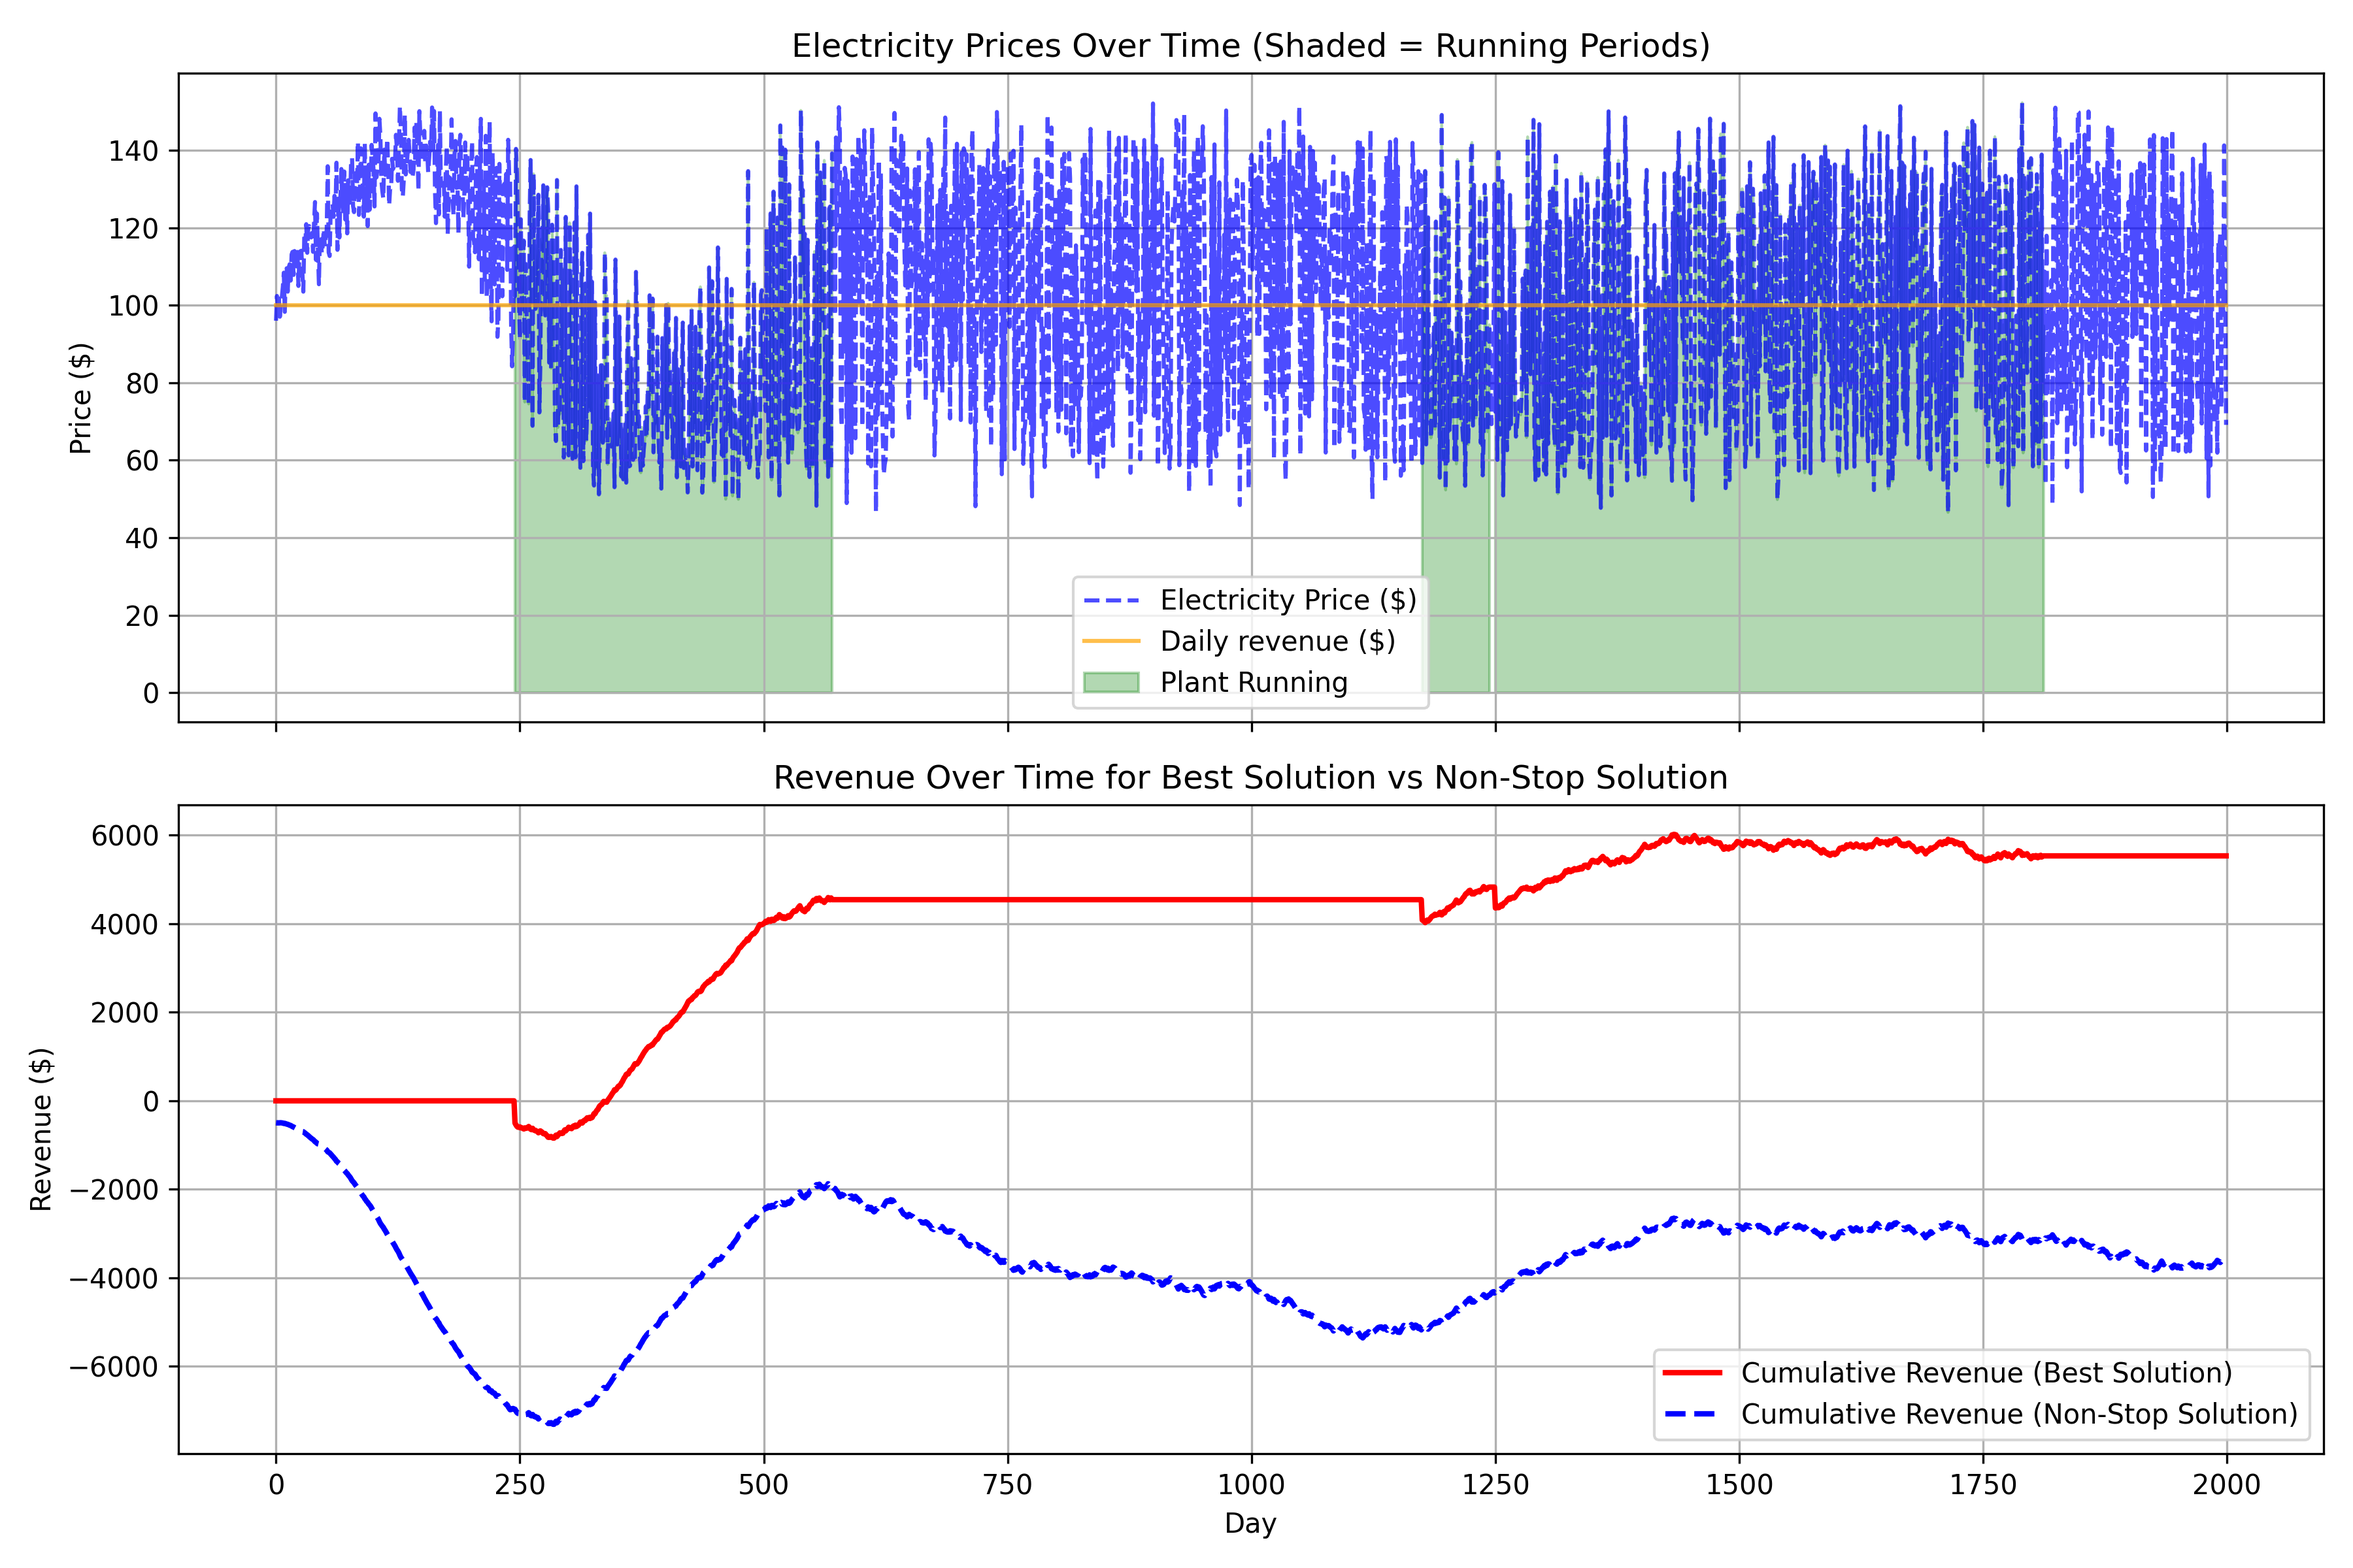
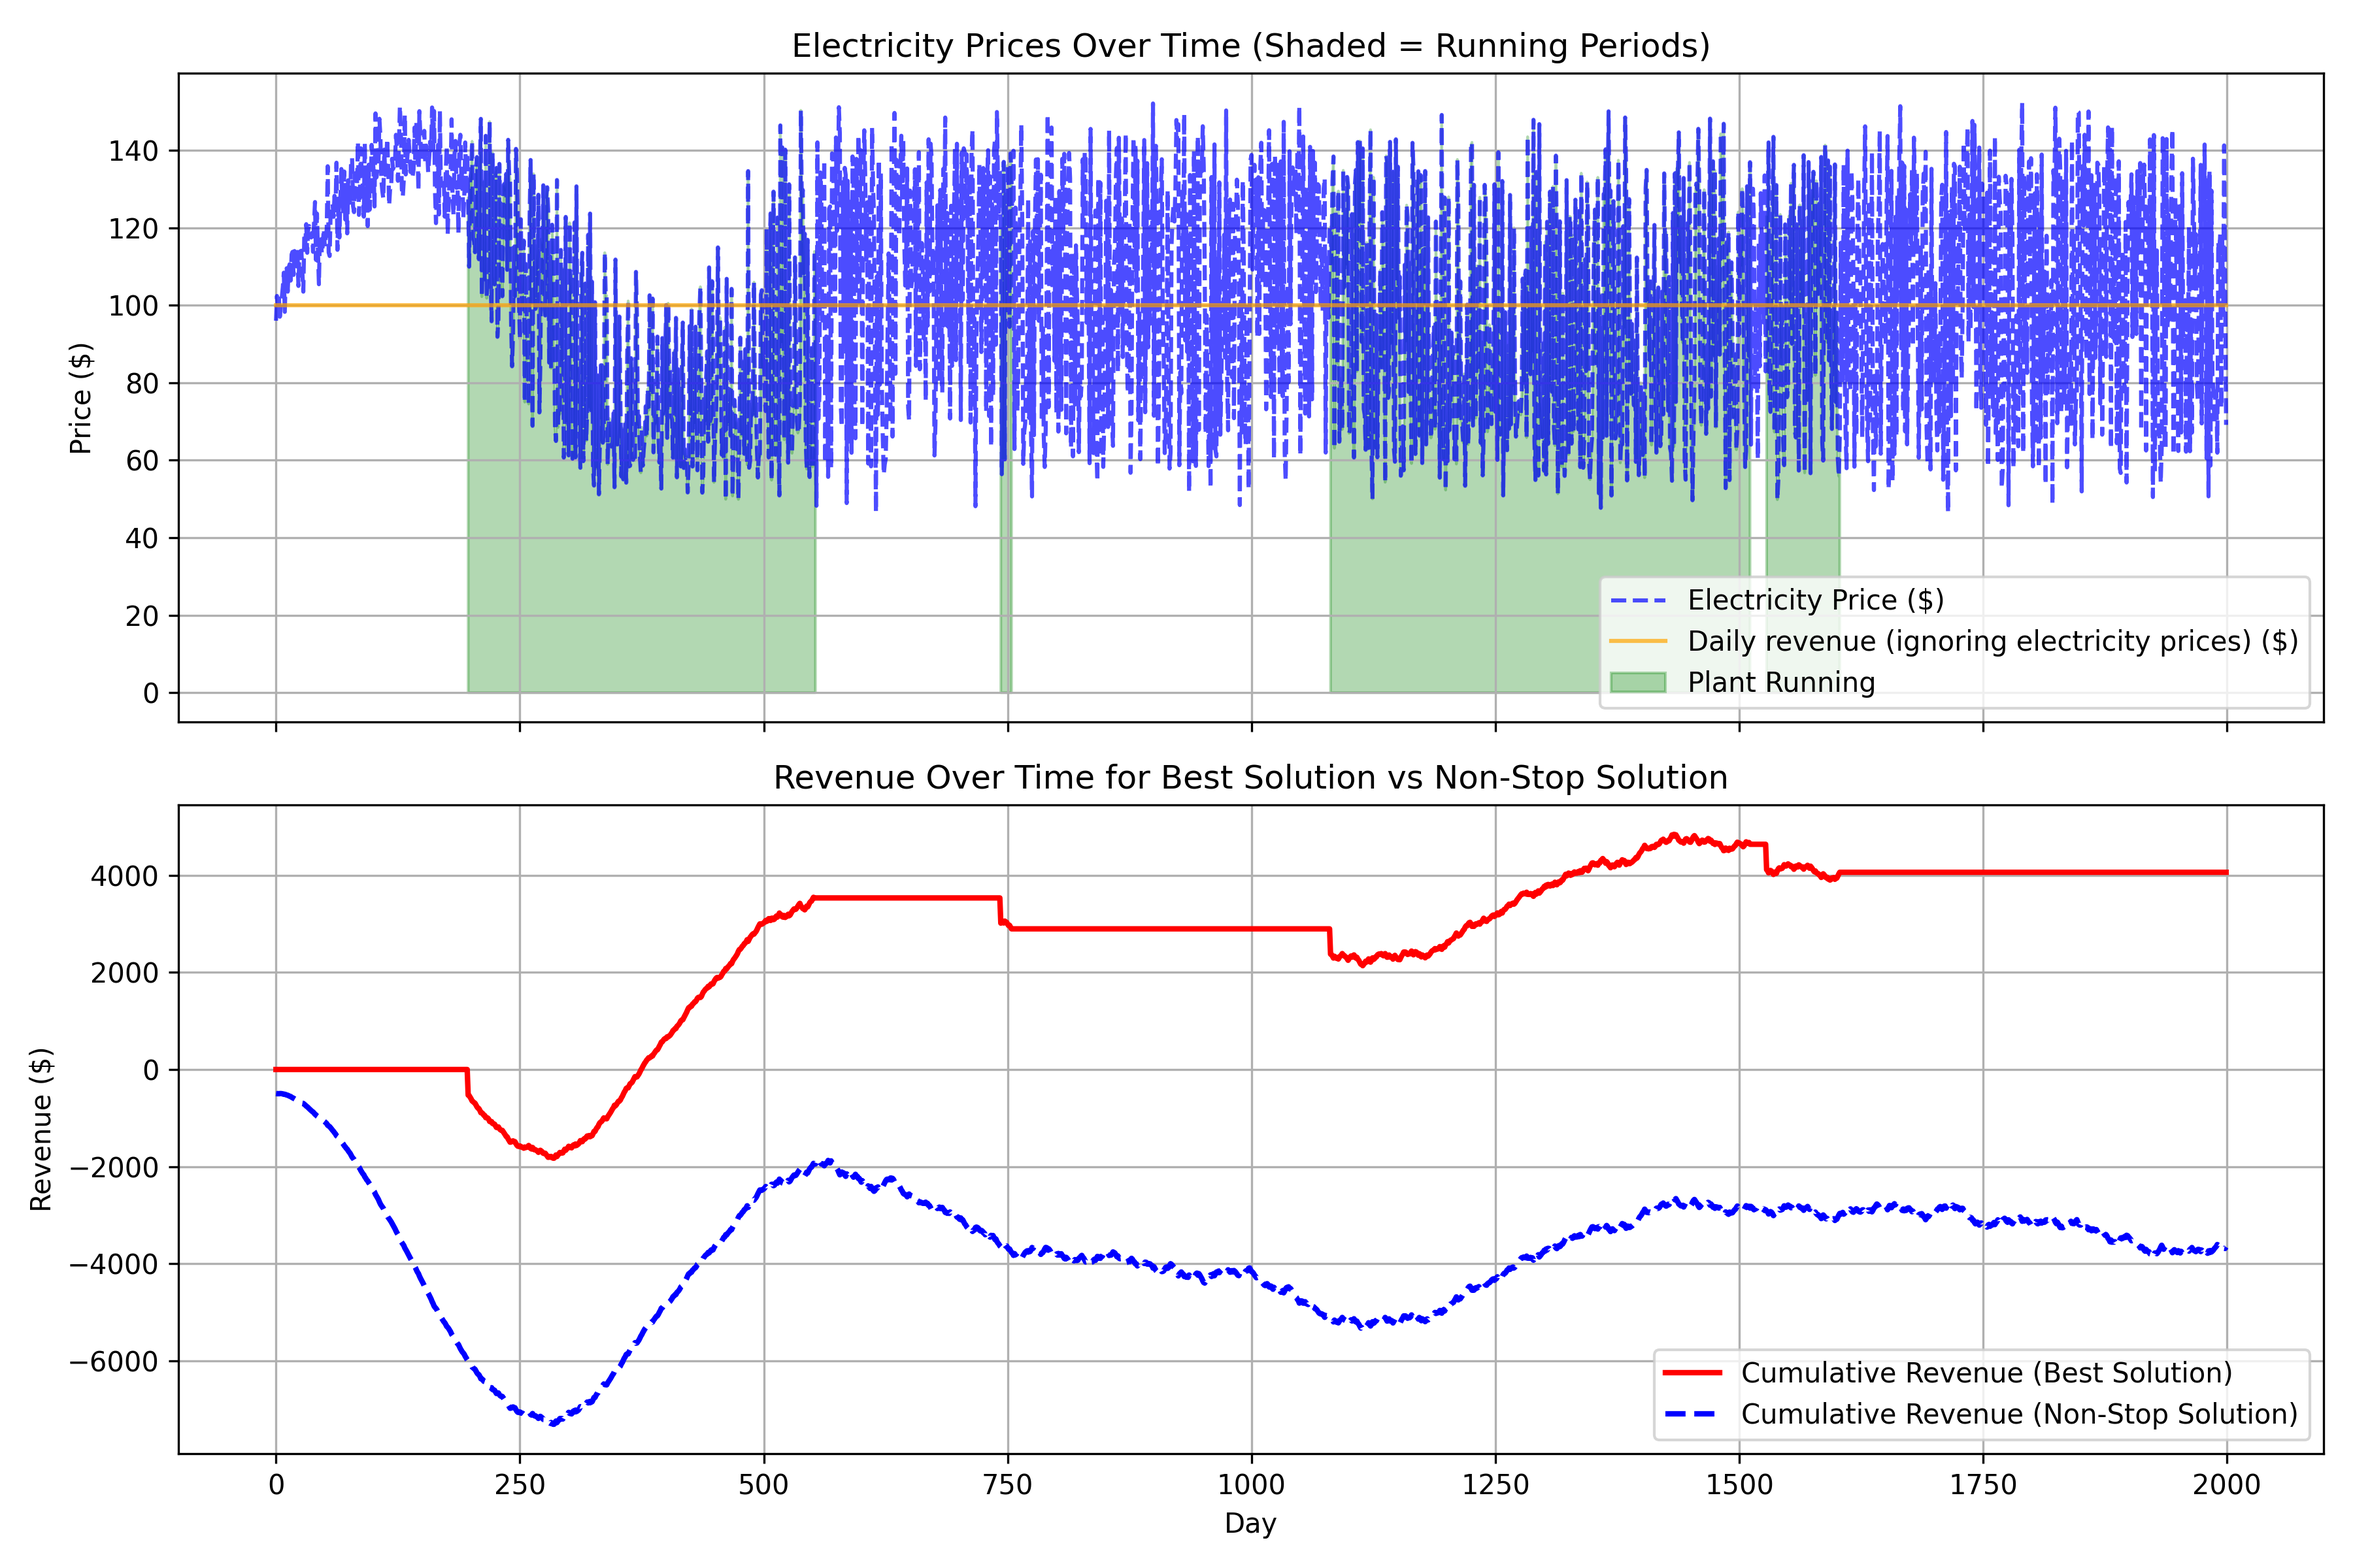
Fixed confusing description

diff --git a/pygad_plant_sim.py b/pygad_plant_sim.py
@@ -51,7 +51,7 @@ def binary_mutation(offspring, ga_instance):
 
 
 # ======================== GA PARAMETERS ========================
-num_generations = 1000
+num_generations = 2000
 num_parents_mating = 16
 sol_per_pop = 20
 num_genes = N
@@ -112,7 +112,7 @@ fig, ax = plt.subplots(2, 1, figsize=(12, 8), sharex=True)
 
 # Plot 1: Electricity Prices + Running Periods
 ax[0].plot(prices, label="Electricity Price ($)", color="blue", linestyle="dashed", alpha=0.7)
-ax[0].plot([prod_per_day for _ in range(N)], label="Daily revenue ($)", color="orange", alpha=0.7)
+ax[0].plot([prod_per_day for _ in range(N)], label="Daily revenue (ignoring electricity prices) ($)", color="orange", alpha=0.7)
 ax[0].fill_between(range(N), prices, where=binary_solution == 1, color="green", alpha=0.3, label="Plant Running")
 ax[0].set_ylabel("Price ($)")
 ax[0].set_title("Electricity Prices Over Time (Shaded = Running Periods)")
